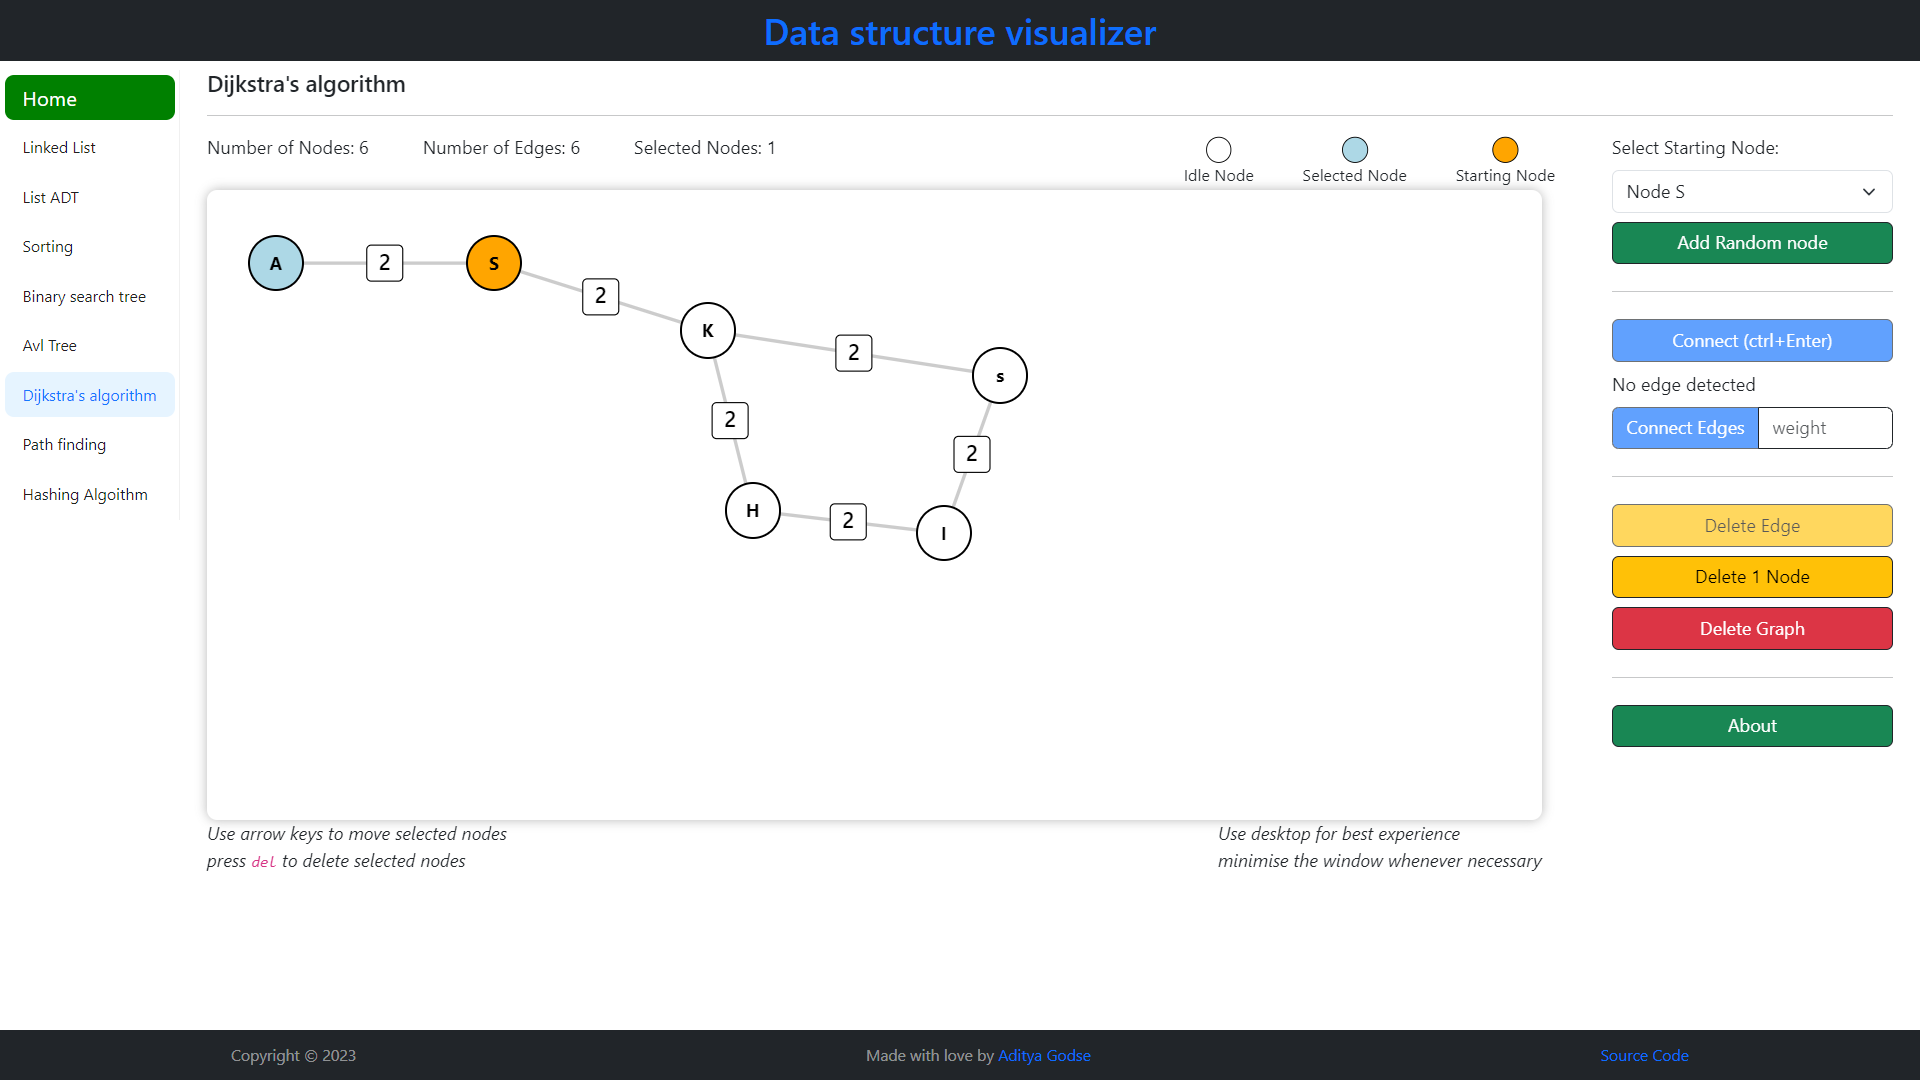
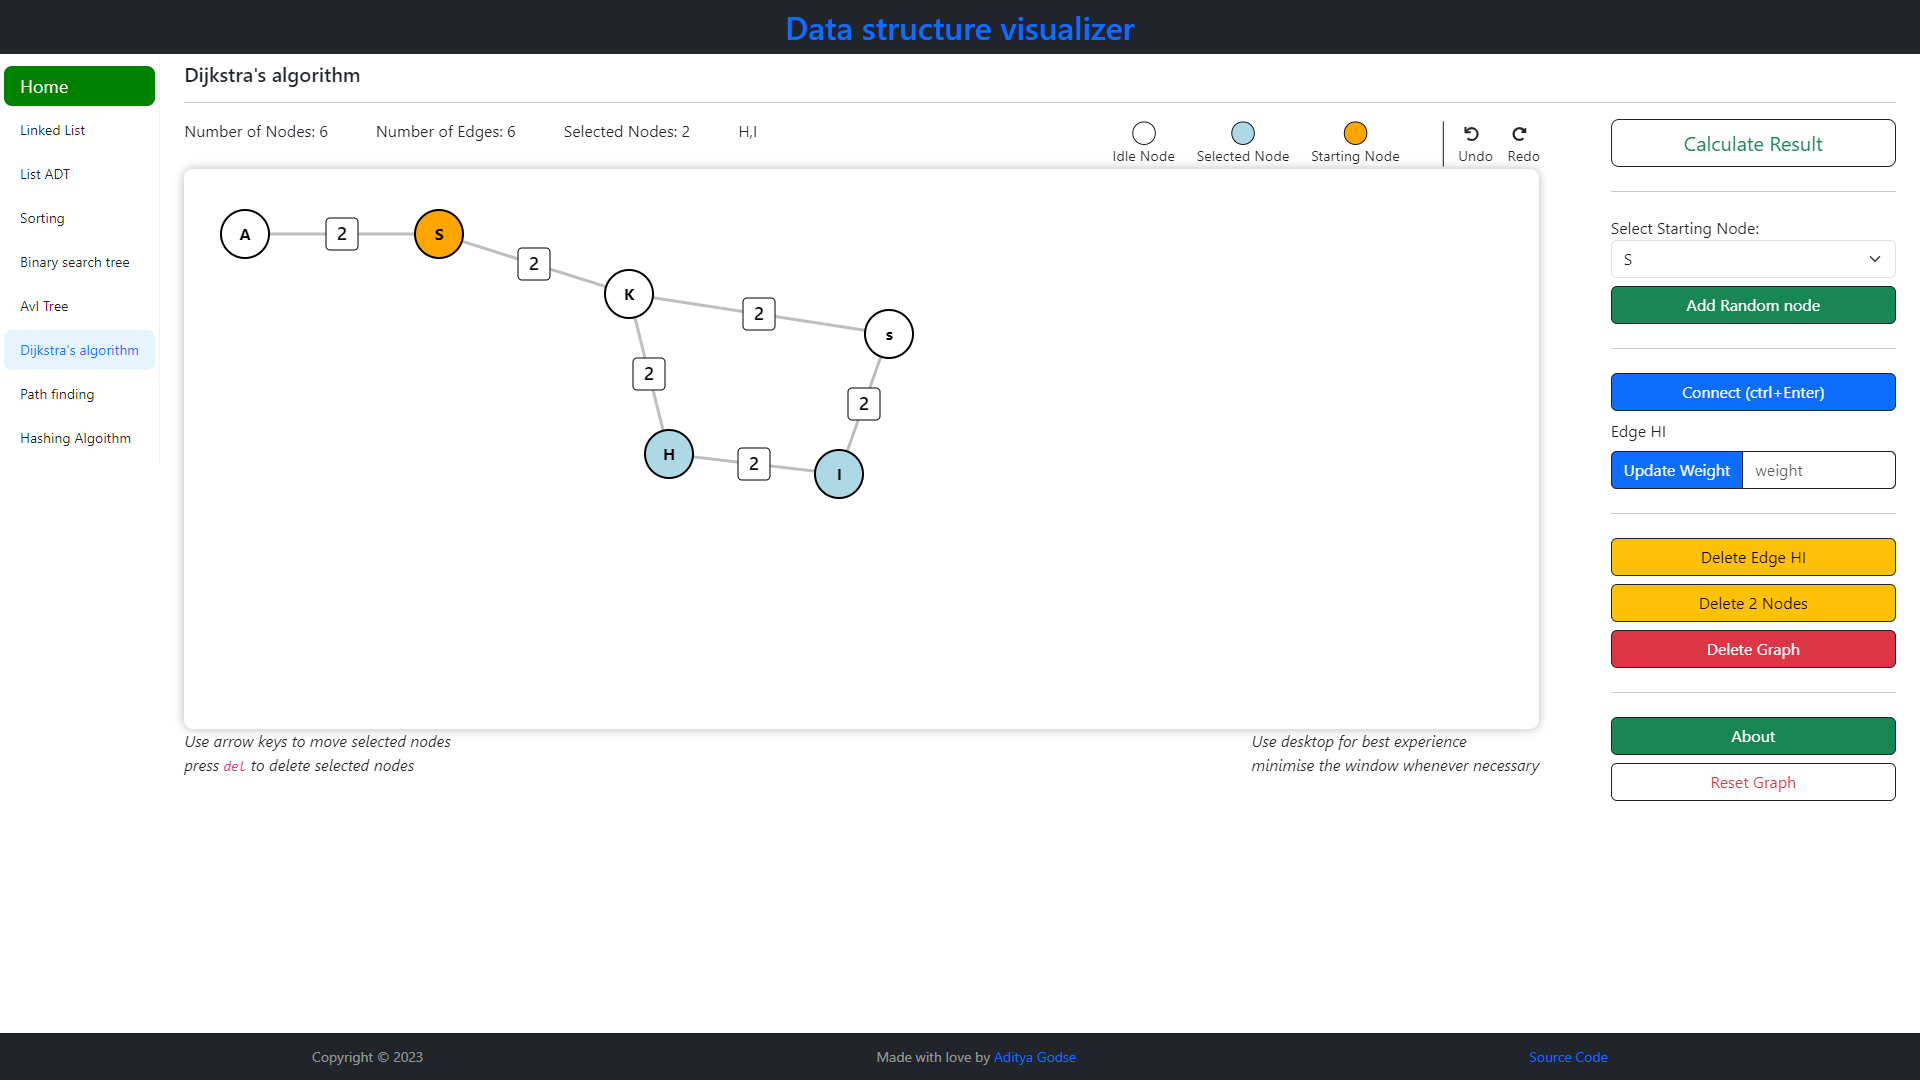
Updated Documentation

diff --git a/src/pages/home/index.tsx b/src/pages/home/index.tsx
@@ -39,7 +39,7 @@ export const HomeMenu = () => {
           </p>
         </div>
         <div style={{ flex: 1 }}>
-          <img src="src\assets\logo.png" alt="" style={{ width: "100%" }} />
+          <img src="public\logo.png" alt="" style={{ width: "100%" }} />
           <span style={{ fontSize: "0.6rem", display: "flex" }}>
             Image Source: devgenius (medium)
           </span>

diff --git a/src/pages/path/index.tsx b/src/pages/path/index.tsx
@@ -8,7 +8,7 @@ export const Dijkstra = () => {
       animate={{ opacity: 1, x: 0 }}
       transition={{ duration: 0.8, ease: [0.68, -0.55, 0.27, 1.55] }}
     >
-      <h5>Dijkstra's algorithm</h5>
+      <h5>Path Finder</h5>
       <hr />
       <DijkstrasAlgorithmCanvas />
     </motion.div>

diff --git a/README.md b/README.md
@@ -10,11 +10,15 @@ Tools used in building this project include React as the frontend framework, Boo
 
 Please excuse the poor structure of my code and components. I am a beginner who's learning-relearning-unlearning lot of things.
 
+## What's New?
+
+now you can see the steps of the Dijkstra's single source shortest path algorithm where it calculates the distance to all nodes in a graph through iterations. You can navigate the steps of the iterations
+
 ## Installation
 
 **Required:** Node.js Version 18+
 
-## Code Snippets
+## Webpage screenshots
 
 ![Home Page](src/assets/ss/home.png)
 ![Linked List](src/assets/ss/ll.png)
@@ -24,6 +28,12 @@ Please excuse the poor structure of my code and components. I am a beginner who'
 ![AVL Tree](src/assets/ss/avl.png)
 ![Dijkstra](src/assets/ss/dijkstra.png)
 ![PathFinding](src/assets/ss/path.png)
+
+### Dijkstra Algorithm Navigation Steps
+
+| Current Step Navigation                       | Algorithm Step Navigation                     | Final Path Navigation                         |
+| --------------------------------------------- | --------------------------------------------- | --------------------------------------------- |
+| ![PathFinding](src/assets/ss/path-Algo-1.png) | ![PathFinding](src/assets/ss/path-Algo-2.png) | ![PathFinding](src/assets/ss/path-Algo-3.png) |
 
 ## How to Use This Site
 
@@ -38,6 +48,8 @@ Please excuse the poor structure of my code and components. I am a beginner who'
 | Ctrl + Node select | Deselect all other nodes and select only single node      |
 | del                | Delete selected nodes                                     |
 | Ctrl + Enter       | Joins two selected nodes                                  |
+| Ctrl + Z           | Undo                                                      |
+| Ctrl + Y           | Redo                                                      |
 
 1. **Linked list:** Perform CRUD operations on a linked list and reverse it.
 2. **List ADT:** Visualize stacks and queues, and perform push-pop and enqueue-dequeue operations.
